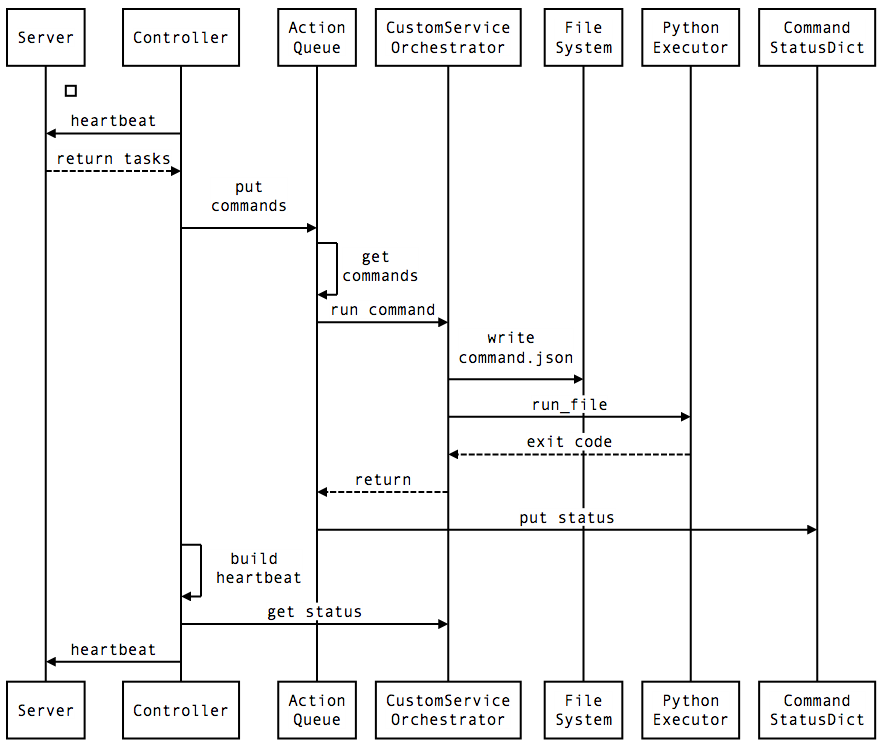
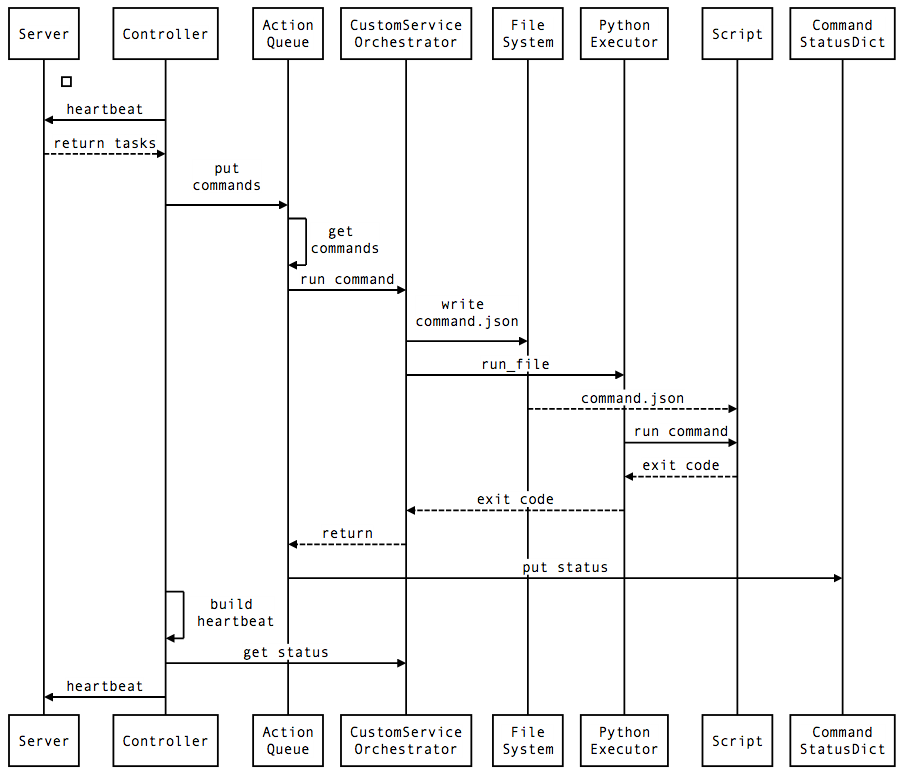
update

Changed region(s): [[0.0, 0.0, 1.0, 1.0]]

diff --git a/docs/ambari-design.md b/docs/ambari-design.md
@@ -23,8 +23,13 @@
 
 - **Stage**: ServicesComponents层面的操作——根据不同ServicesComponents操作间的依赖关系，一个Operation的所有Task可能被划分成多个Stage，一个Stage内的多个Task相互没有依赖，可以并行执行。
 
-```	
-注意：不同的Stage只能顺序执行，同一个Stage内的多个Task可以并行执行，但是分配给同一个机器的Task只能顺序执行。
+```
+需要特别说明操作的执行顺序：
+1. 不同的Stage只能顺序执行。后面的Stage只有在前面Stage执行成功后才会下发给Agent。如果前面Stage失败，后面的Stage将取消。
+
+2. 同一个Stage内的多个Task可以并行执行，可以同时下发给Agent。如果某个Task失败，其他的已下发且正执行的Task将被取消。
+
+3. 分配给同一个机器的不同Task只会顺序执行。
 ```
 
 下图描述了这三种资源与操作的对应关系：
@@ -37,7 +42,15 @@
 
 - **StagePlan**: 执行态的Operation，是一个Stage DAG。
 
-- **Command:** 执行态的Task，下发给具体的机器执行。
+- **Command:** 执行态的Task，下发给具体的机器执行。主要有以下几种：
+  
+	- **ExecuteCommand:** 执行INSTALL/START/STOP等。
+
+	- **StatusCommand:** 执行组件死活检查。
+
+	- **CancelCommand:** 当stage中的某个task失败时，需要取消其他已经下发的task。
+
+	- **RegistrationCommand:** 要求Agent向Server重新注册。
 
 - **Action**: 执行态的Stage，由多个Command构成。
 
@@ -65,7 +78,7 @@ HDP服务的元数据可以通过一系列的文件来描述：
 
 除此之外，服务操作的执行需要定义一些运行环境，约定定义在如下几个文件夹：
 
-- **package/scripts:** 包含服务操作的执行脚本。
+- **package/scripts:** 包含服务操作的执行脚本（需要继承Script类，重载install/start/stop等方法）。
 
 - **package/templates:** 包含自定义的模板文件。
 
@@ -97,6 +110,8 @@ HDP服务的元数据可以通过一系列的文件来描述：
 
 - **ClusterController**: 统筹地处理资源操作请求。
 
+- **ClusterFSM:** 集群状态机，在内存中维护各个资源的状态信息。
+ 
 - **ResourceProvider:** 实现资源的CRUD操作，每种资源对应一个ResourceProvider。
 
 - **PropertyProvider:** 向资源对象里添加各种property，主要是alert和metric两种。
